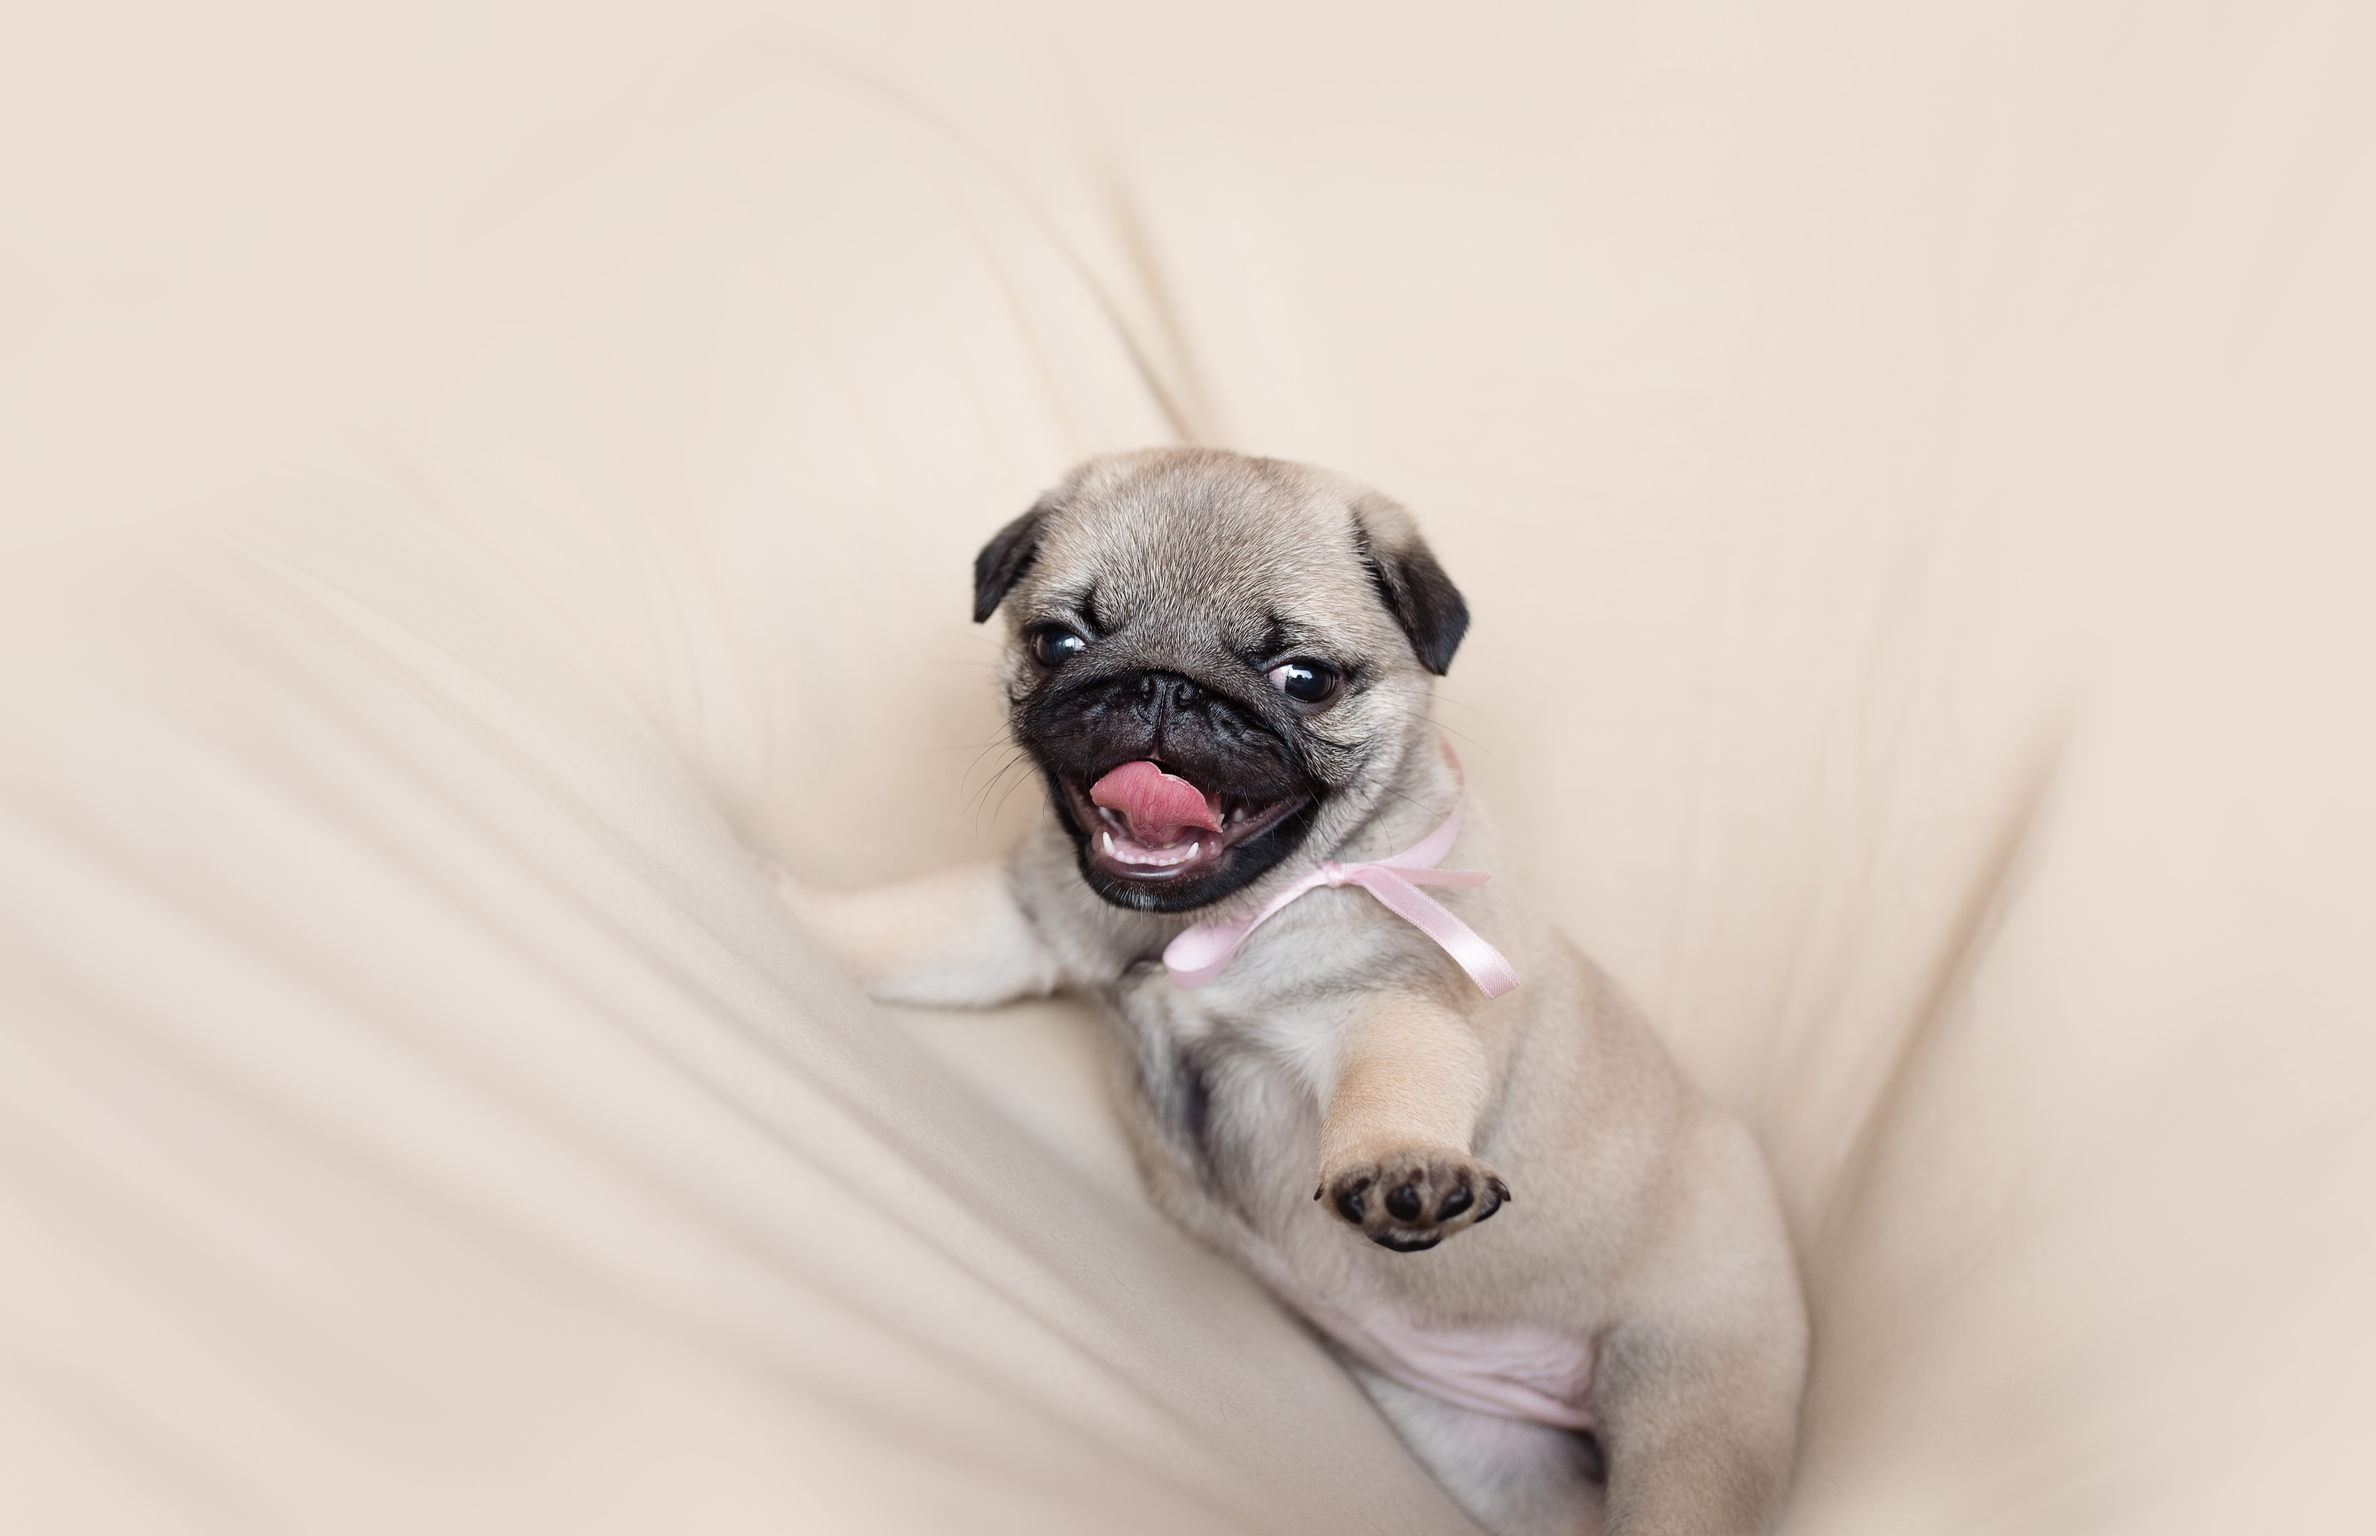
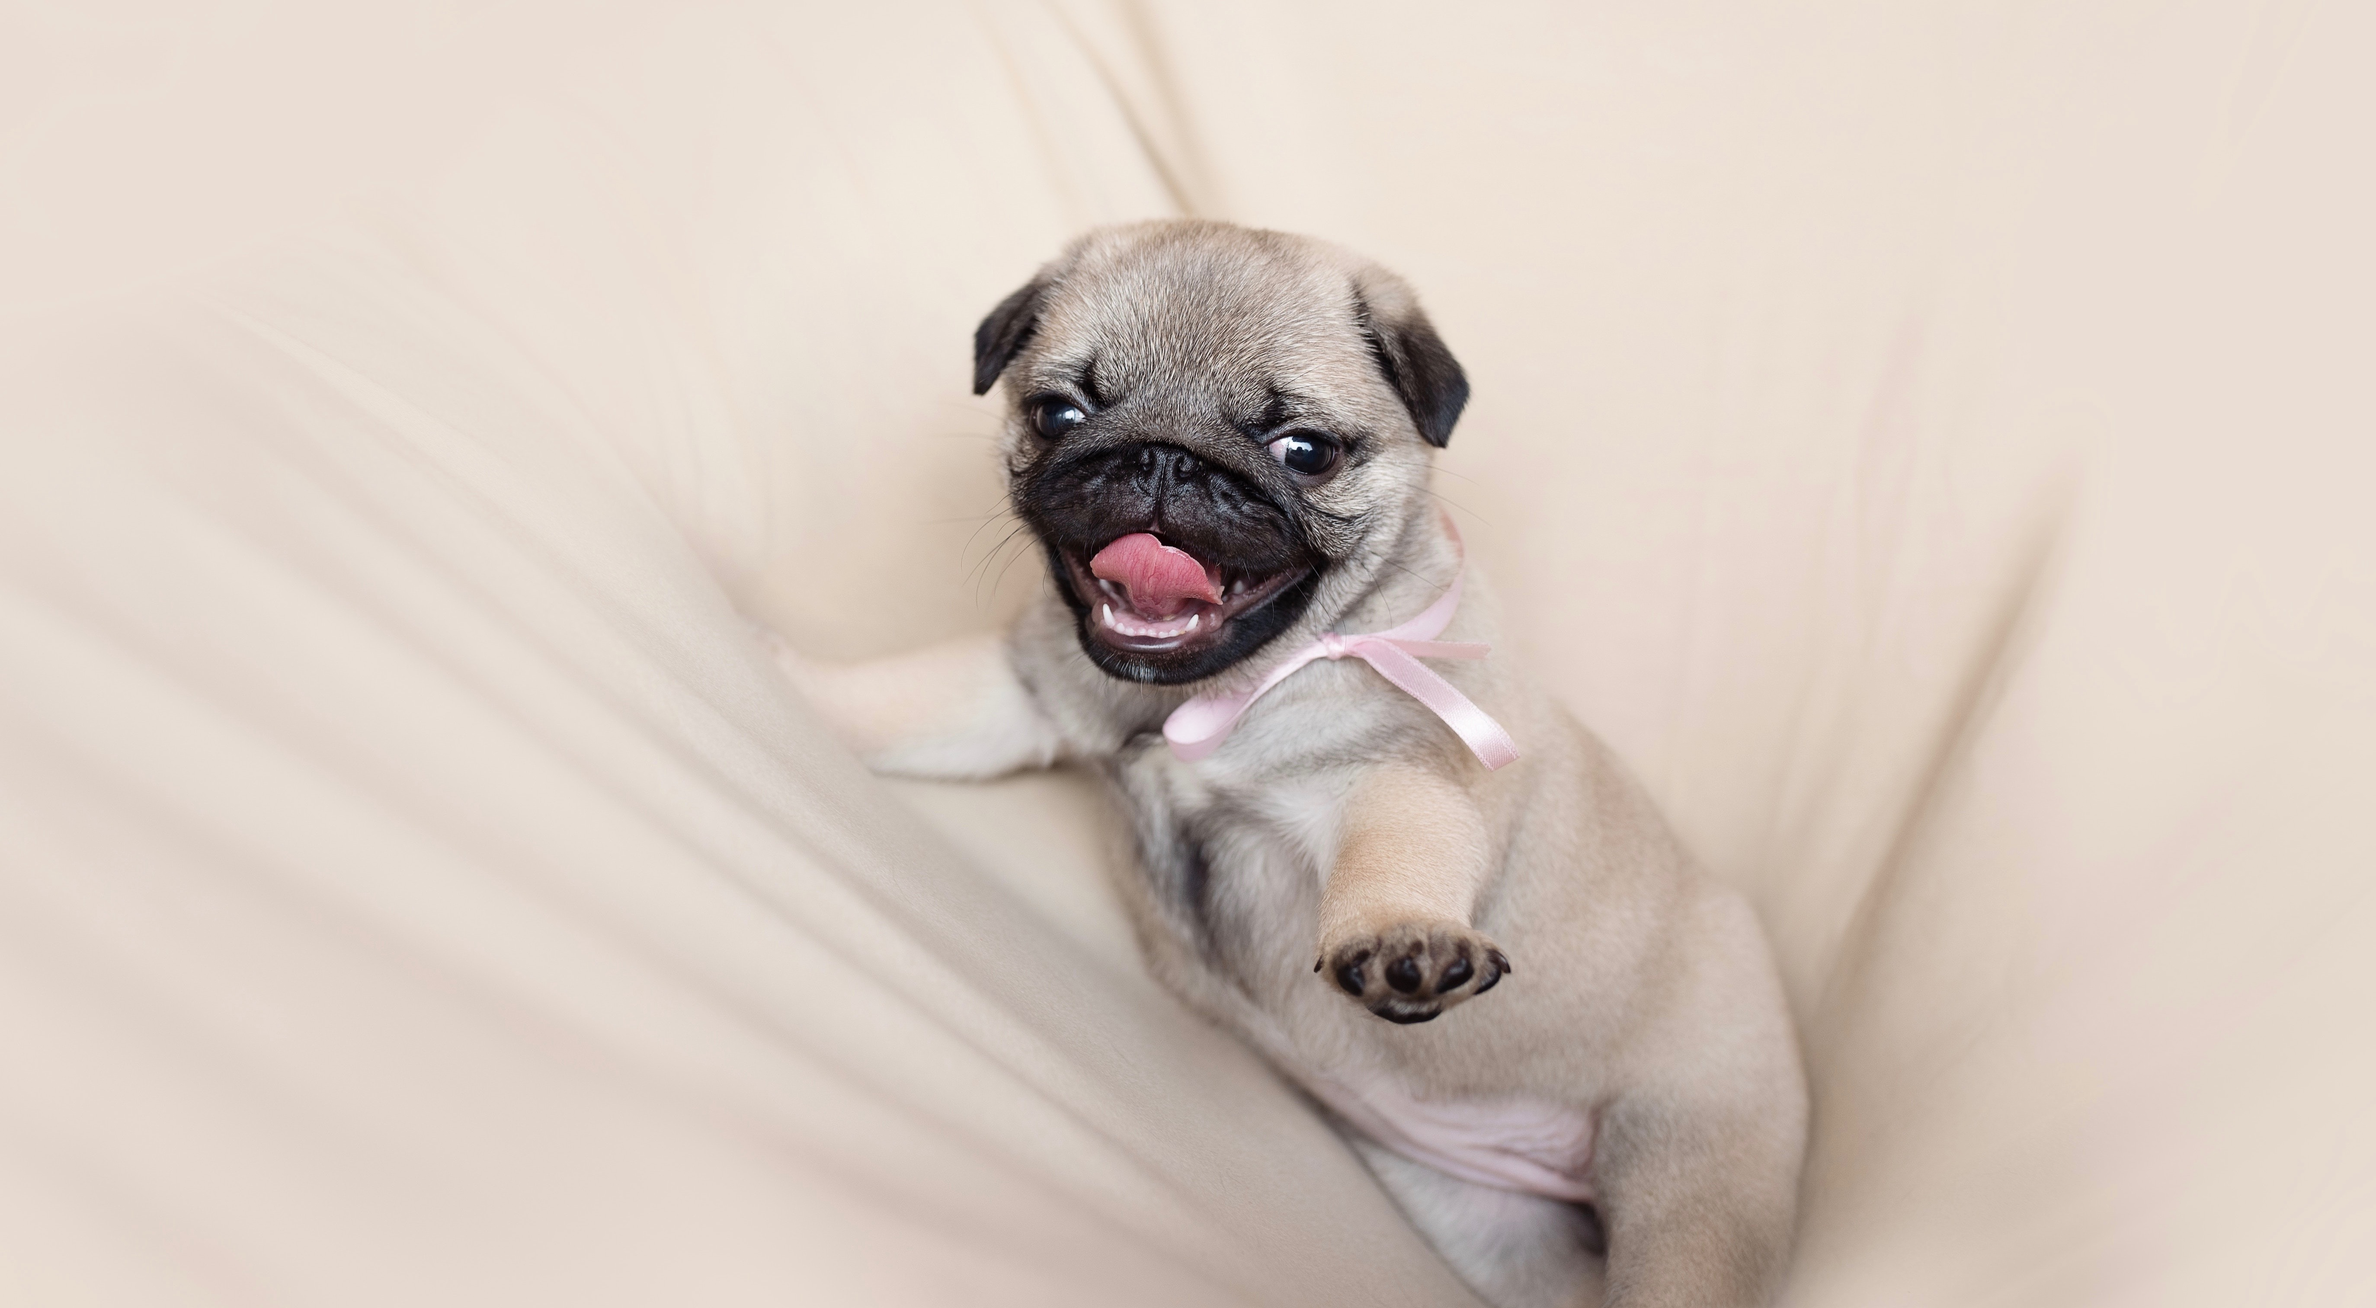
Adding photos to conditions pages

diff --git a/styles.css b/styles.css
@@ -75,8 +75,6 @@ a:visited {
   background-size: cover;
 }
 
-
-/* Cat Page */
 .page-grid-container {
   display: grid;
   grid-template-columns: 1fr;
@@ -93,24 +91,16 @@ a:visited {
 }
 
 .links {
-  grid-area: links; }
-
-.description { grid-area: description; }
-
-#cat-bg-image {
-  background-image: url('/docs/CatPageHeader.jpg');
-  background-repeat: no-repeat;
-  background-size: cover;
-}
-
-section {
-  height: 800px;
-}
-
-.links {
+  grid-area: links;
   height: 200px;
   padding-top: 200px;
   font-size: 30px;
+}
+
+.description { grid-area: description; }
+
+section {
+  height: 800px;
 }
 
 #conditions1 {
@@ -129,14 +119,92 @@ section {
   height: 400px;
 }
 
+/* Check Out */
+.order-form-grid-container {
+  display: grid;
+  grid-template-columns: 1fr;
+  grid-template-rows: 1fr 1fr 1fr 1fr;
+  grid-template-areas: "order-summary" "email" "card" "address";
+}
+
+.order-summary { grid-area: order-summary; }
+
+.email { grid-area: email; }
+
+.card { grid-area: card; }
+
+.address { grid-area: address; }
+
+/* Images */
+
 #dog-bg-image {
   background-image: url('/docs/DogHeaderPg.jpg');
   background-repeat: no-repeat;
   background-size: cover;
 }
 
-#obesity-bg-image {
-  background-image: url('/docs/watchin-you-dog.jpg');
+#dog-obesity-bg-image {
+  background-image: url('/docs/smiling-lab.jpg');
+  background-repeat: no-repeat;
+  background-size: cover;
+}
+
+#dog-preg-bg-image {
+  background-image: url('/docs/happy-puppy.jpg');
+  background-repeat: no-repeat;
+  background-size: cover;
+}
+
+#dog-diabetes-bg-image {
+  background-image: url('/docs/happy-dogs.jpg');
+  background-repeat: no-repeat;
+  background-size: cover;
+}
+
+#dog-panc-bg-image {
+  background-image: url('/docs/sleeping-french.jpg');
+  background-repeat: no-repeat;
+  background-size: cover;
+}
+
+#dog-skin-bg-image {
+  background-image: url('/docs/pug-in-blanket.jpg');
+  background-repeat: no-repeat;
+  background-size: cover;
+}
+
+#cat-bg-image {
+  background-image: url('/docs/CatPageHeader.jpg');
+  background-repeat: no-repeat;
+  background-size: cover;
+}
+
+#cat-obesity-bg-image {
+  background-image: url('/docs/kitten-on-walk.jpg');
+  background-repeat: no-repeat;
+  background-size: cover;
+}
+
+#cat-preg-bg-image {
+  background-image: url('/docs/mom-and-kitten.jpg');
+  background-repeat: no-repeat;
+  background-size: cover;
+}
+
+#cat-diabetes-bg-image {
+  background-image: url('/docs/sleepy-cat.jpg');
+  background-repeat: no-repeat;
+  background-size: cover;
+}
+
+#cat-ut-bg-image {
+  background-image: url('/docs/cat-scatches.jpg');
+  background-repeat: no-repeat;
+  background-size: cover;
+}
+
+#cat-hairballs-bg-image {
+  background-image: url('/docs/worried-cat.jpg');
   background-repeat: no-repeat;
   background-size: cover;
 }

diff --git a/dog-obesity.html b/dog-obesity.html
@@ -19,7 +19,7 @@
 </head>
 <body>
     <div>
-      <section id= 'obseity-bg-image'>
+      <section id= 'dog-obesity-bg-image'>
         <nav>
             <header>Cat Page Title</header>
       <ul class="nav-menu">

diff --git a/cat-hairballs.html b/cat-hairballs.html
@@ -19,7 +19,7 @@
 </head>
 <body>
     <div>
-      <section id= 'cat-bg-image'>
+      <section id= 'cat-hairballs-bg-image'>
         <nav>
             <header>Cat Page Title</header>
       <ul class="nav-menu">

diff --git a/cat-diabetes.html b/cat-diabetes.html
@@ -19,7 +19,7 @@
 </head>
 <body>
     <div>
-      <section id= 'cat-bg-image'>
+      <section id= 'cat-diabetes-bg-image'>
         <nav>
             <header>Cat Page Title</header>
       <ul class="nav-menu">

diff --git a/dog-diabetes.html b/dog-diabetes.html
@@ -19,7 +19,7 @@
 </head>
 <body>
     <div>
-      <section id= 'cat-bg-image'>
+      <section id= 'dog-diabetes-bg-image'>
         <nav>
             <header>Cat Page Title</header>
       <ul class="nav-menu">

diff --git a/cat-obesity.html b/cat-obesity.html
@@ -19,7 +19,7 @@
 </head>
 <body>
     <div>
-      <section id= 'cat-bg-image'>
+      <section id= 'cat-obesity-bg-image'>
         <nav>
             <header>Cat Page Title</header>
       <ul class="nav-menu">

diff --git a/cat-preg.html b/cat-preg.html
@@ -19,7 +19,7 @@
 </head>
 <body>
     <div>
-      <section id= 'cat-bg-image'>
+      <section id= 'cat-preg-bg-image'>
         <nav>
             <header>Cat Page Title</header>
       <ul class="nav-menu">

diff --git a/dog-pancreatitis.html b/dog-pancreatitis.html
@@ -19,7 +19,7 @@
 </head>
 <body>
     <div>
-      <section id= 'cat-bg-image'>
+      <section id= 'dog-panc-bg-image'>
         <nav>
             <header>Cat Page Title</header>
       <ul class="nav-menu">

diff --git a/dog-preg.html b/dog-preg.html
@@ -19,7 +19,7 @@
 </head>
 <body>
     <div>
-      <section id= 'cat-bg-image'>
+      <section id= 'dog-preg-bg-image'>
         <nav>
             <header>Cat Page Title</header>
       <ul class="nav-menu">

diff --git a/cat-ut.html b/cat-ut.html
@@ -19,7 +19,7 @@
 </head>
 <body>
     <div>
-      <section id= 'cat-bg-image'>
+      <section id= 'cat-ut-bg-image'>
         <nav>
             <header>Cat Page Title</header>
       <ul class="nav-menu">

diff --git a/dog-skin.html b/dog-skin.html
@@ -19,7 +19,7 @@
 </head>
 <body>
     <div>
-      <section id= ''>
+      <section id= 'dog-skin-bg-image'>
         <nav>
             <header>Cat Page Title</header>
       <ul class="nav-menu">
